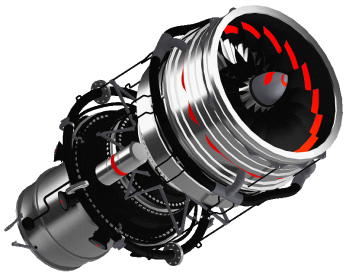
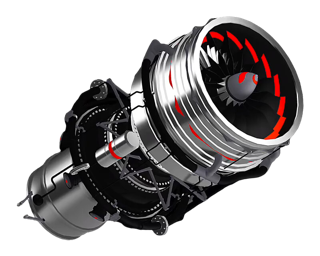
update headings and 3d model loading condition

diff --git a/index.html b/index.html
@@ -13,7 +13,7 @@
         />
         <meta
             property="og:title"
-            content="Karagoz Aviation LLC - Experience in Aviation"
+            content="Karagoz Aviation LLC - Aviation Sales And Business Development"
         />
         <meta
             property="og:description"
@@ -72,7 +72,7 @@
 
         <section id="header">
             <div class="header-title">
-                <h1 class="h1-x">
+                <h1 class="h1">
                     <!-- Vast <span class="ft-hl-blue">Experience </span><br /> -->
                     <!-- in Aviation -->
                     Your
@@ -87,7 +87,19 @@
                         src="/public/images/circle.svg"
                         alt="circle"
                     />
-                    <video class="image-3d" autoplay loop muted playsinline>
+                    <div class="aircraft-3d">
+                        <img
+                            src="/public/images/aircraft_s.png"
+                            alt="3D Aircraft"
+                            srcset="
+                                /public/images/aircraft_s.png  300w,
+                                /public/images/aircraft_m.png  600w,
+                                /public/images/aircraft_l.png 1440w
+                            "
+                            sizes="(max-width: 300px) 300px, (max-width: 600px) 600px, 1440px"
+                        />
+                    </div>
+                    <!-- <video class="image-3d" autoplay loop muted playsinline>
                         <source
                             src="/public/models/aircraft-hevc-safari.mp4"
                             type='video/mp4; codecs="hvc1"'
@@ -98,7 +110,7 @@
                             type="video/webm"
                             alt="3D Aircraft"
                         />
-                    </video>
+                    </video> -->
 
                     <div class="tag-vertical">
                         <span class="bracket-left"></span>
@@ -154,16 +166,27 @@
                         <br />
                         Excellence
                     </p> -->
-                    <p class="h1-x">
+                    <p class="h1">
                         <span class="ft-hl-blue">Aviation</span> <br />
                         Sales <br />
                         And<br />
-                        Business <br />
+                        <span class="ft-hl-blue">Business</span> <br />
                         Development
                     </p>
                 </div>
                 <div class="services-header-grid__block-3">
-                    <video autoplay loop muted playsinline>
+                    <div class="logo-3d">
+                        <img
+                            src="/public/logos/kza_logo_m.png"
+                            alt="3D Logo"
+                            srcset="
+                                /public/logos/kza_logo_m.png  600w,
+                                /public/logos/kza_logo_l.png 1440w
+                            "
+                            sizes="(max-width: 600px) 600px, 1440px"
+                        />
+                    </div>
+                    <!-- <video autoplay loop muted playsinline>
                         <source
                             src="/public/models/logo-transparent-hevc-safari.mp4"
                             type='video/mp4; codecs="hvc1"'
@@ -173,7 +196,7 @@
                             src="/public/models/logo-transparent-vp9-chrome.webm"
                             type="video/webm"
                         />
-                    </video>
+                    </video> -->
                 </div>
                 <div class="services-header-grid__block-4">
                     <p class="p-body">
@@ -356,7 +379,19 @@
         <section id="getintouch">
             <div class="git-grid">
                 <div class="git-grid__visual">
-                    <video class="image-3d" autoplay loop muted playsinline>
+                    <div class="engine-3d">
+                        <img
+                            src="/public/images/engine_s.png"
+                            alt="3D Engine"
+                            srcset="
+                                /public/images/engine_s.png  300w,
+                                /public/images/engine_m.png  600w,
+                                /public/images/engine_l.png 1440w
+                            "
+                            sizes="(max-width: 300px) 300px, (max-width: 600px) 600px, 1440px"
+                        />
+                    </div>
+                    <!-- <video class="image-3d" autoplay loop muted playsinline>
                         <source
                             src="/public/models/engine-hevc-safari.mp4"
                             type='video/mp4; codecs="hvc1"'
@@ -366,7 +401,7 @@
                             src="/public/models/engine-vp9-chrome.webm"
                             type="video/webm"
                         />
-                    </video>
+                    </video> -->
                     <div class="tag-vertical">
                         <span class="bracket-left"></span>
                         <span class="p-tag-vertical">aircraft engine</span>

diff --git a/src/development/index.js b/src/development/index.js
@@ -45,61 +45,6 @@ modalWindowNode.addEventListener("click", (event) => {
     }
 });
 
-function loadVideoIfFastConnection() {
-    const connection =
-        navigator.connection ||
-        navigator.mozConnection ||
-        navigator.webkitConnection;
-    if (connection && connection.effectiveType.includes("4g")) {
-        // load video
-        const aircraftHTML = `
-                    <video class="image-3d" autoplay loop muted playsinline>
-                        <source
-                            src="/public/models/aircraft-hevc-safari.mp4"
-                            type='video/mp4; codecs="hvc1"'
-                            alt="3D Aircraft"
-                        />
-                        <source
-                            src="/public/models/aircraft-vp9-chrome.webm"
-                            type="video/webm"
-                            alt="3D Aircraft"
-                        />
-                    </video>
-        `;
-        const logoHTML = `
-                    <video autoplay loop muted playsinline>
-                        <source
-                            src="/public/models/logo-transparent-hevc-safari.mp4"
-                            type='video/mp4; codecs="hvc1"'
-                            alt="3D Logo"
-                        />
-                        <source
-                            src="/public/models/logo-transparent-vp9-chrome.webm"
-                            type="video/webm"
-                        />
-                    </video>
-        `;
-        const engineHTML = `
-                    <video class="image-3d" autoplay loop muted playsinline>
-                        <source
-                            src="/public/models/engine-hevc-safari.mp4"
-                            type='video/mp4; codecs="hvc1"'
-                            alt="3D Engine"
-                        />
-                        <source
-                            src="/public/models/engine-vp9-chrome.webm"
-                            type="video/webm"
-                        />
-                    </video>
-        `;
-        document.querySelector(".aircraft-3d").innerHTML = aircraftHTML;
-        document.querySelector(".logo-3d").innerHTML = logoHTML;
-        document.querySelector(".engine-3d").innerHTML = engineHTML;
-    }
-}
-
-window.addEventListener("load", loadVideoIfFastConnection);
-
 function togglePopup() {
     modalWindowNode.classList.toggle(MODAL_WINDOW_ACTIVE_CLASSNAME);
     bodyNode.classList.toggle(BODY_FIXED_CLASSNAME);

diff --git a/src/styles/section-services.css b/src/styles/section-services.css
@@ -26,16 +26,35 @@
     flex-direction: column;
     justify-content: center;
     align-items: center;
+
+    /* border: 1px solid yellowgreen; */
 }
 
-.services-header-grid__block-3 video {
+/* .services-header-grid__block-3 video {
     width: 80%;
     max-width: 20rem;
     object-fit: contain;
+} */
+
+.services-header-grid__block-3 .logo-3d {
+    width: 80%;
+    max-width: 20rem;
+    object-fit: contain;
+
+    /* border: 1px solid red; */
+}
+
+.services-header-grid__block-3 .logo-3d img,
+.services-header-grid__block-3 .logo-3d video {
+    width: 100%;
+    height: auto;
+
+    /* development */
+    /* display: none; */
 }
 
 .services-header-grid__block-4 {
-    max-width: 26rem;
+    max-width: 24rem;
 
     display: flex;
     flex-direction: column;
@@ -62,9 +81,9 @@
 @media (min-width: 800px) {
     .services-header-grid {
         grid-template-columns: 1fr 60%;
-        grid-template-rows: auto auto;
+        grid-template-rows: auto auto auto;
         column-gap: 2rem;
-        row-gap: 0.5rem;
+        row-gap: 1rem;
     }
 
     .services-header-grid__block-1 {
@@ -74,8 +93,47 @@
 
     .services-header-grid__block-2 {
         grid-row-start: 1;
+        grid-row-end: 3;
+    }
+
+    .services-header-grid__block-3 {
+        grid-row-start: 2;
+        grid-row-end: 3;
+    }
+
+    .services-header-grid__block-4 {
+        grid-row-start: 3;
+        grid-row-end: 4;
+        grid-column-start: 1;
+        grid-column-end: 3;
+    }
+}
+
+@media (min-width: 1300px) {
+    .services-header-grid {
+        row-gap: 0.5rem;
+    }
+
+    .services-header-grid__block-2 {
+        grid-row-start: 1;
         grid-row-end: 4;
     }
+
+    .services-header-grid__block-4 {
+        grid-row-start: 3;
+        grid-row-end: 4;
+        grid-column-start: 1;
+        grid-column-end: 2;
+    }
+}
+
+#services .orange-line {
+    margin-bottom: 5rem;
+}
+
+.services-include {
+    margin-bottom: clamp(2rem, 8vw, 8rem);
+    color: var(--clr-white);
 }
 
 #services .orange-line {

diff --git a/src/styles/font-styles.css b/src/styles/font-styles.css
@@ -1,7 +1,7 @@
 .h1 {
-    font-size: clamp(4.25rem, 10.5vw, 9.5rem);
-    line-height: clamp(3.5rem, 8.3vw, 7.5rem);
-    letter-spacing: clamp(-0.255rem, -0.63vw, -0.57rem);
+    font-size: clamp(3.25rem, 8.5vw, 9.5rem);
+    line-height: clamp(2.5rem, 6.3vw, 7.5rem);
+    letter-spacing: clamp(-0.155rem, -0.5vw, -0.57rem);
     /* font-size: 9.5rem; */
     /* line-height: 7.5rem; */
     /* letter-spacing: -0.57rem; */
@@ -18,9 +18,12 @@
 }
 
 .h1-x {
-    font-size: clamp(3.25rem, 8.5vw, 8rem);
-    line-height: clamp(2.5rem, 6.3vw, 6.75rem);
-    letter-spacing: clamp(-0.155rem, -0.5vw, -0.45rem);
+    font-size: clamp(3.25rem, 8.5vw, 9.5rem);
+    line-height: clamp(2.5rem, 6.3vw, 7.5rem);
+    letter-spacing: clamp(-0.155rem, -0.5vw, -0.57rem);
+    /* font-size: clamp(3.25rem, 8.5vw, 8rem); */
+    /* line-height: clamp(2.5rem, 6.3vw, 6.75rem); */
+    /* letter-spacing: clamp(-0.155rem, -0.5vw, -0.45rem); */
     /* font-size: 9.5rem; */
     /* line-height: 7.5rem; */
     /* letter-spacing: -0.57rem; */

diff --git a/src/styles/section-header.css b/src/styles/section-header.css
@@ -18,7 +18,7 @@
     position: relative;
 }
 
-.header-visual video {
+/* .header-visual video {
     width: 110%;
     max-height: 120%;
     object-fit: contain;
@@ -26,6 +26,24 @@
     top: -50%;
     right: -10%;
     z-index: 500;
+} */
+
+.header-visual .aircraft-3d {
+    width: 110%;
+    max-height: 120%;
+    object-fit: contain;
+    position: absolute;
+    top: -50%;
+    right: -10%;
+    z-index: 500;
+
+    /* border: 1px solid red; */
+}
+
+.header-visual .aircraft-3d img,
+.header-visual .aircraft-3d video {
+    width: 100%;
+    height: auto;
 }
 
 .header-circle {
@@ -91,7 +109,8 @@
         right: 2.5rem;
     }
 
-    .header-visual video {
+    /* .header-visual video { */
+    .header-visual .aircraft-3d {
         top: -50%;
     }
 

diff --git a/src/styles/section-getintouch.css b/src/styles/section-getintouch.css
@@ -18,11 +18,26 @@
     position: relative;
 }
 
-.git-grid__visual video {
+/* .git-grid__visual video {
     width: 100%;
     max-width: 30rem;
     height: auto;
     object-fit: contain;
+} */
+
+.git-grid__visual .engine-3d {
+    width: 100%;
+    max-width: 30rem;
+    height: auto;
+    object-fit: contain;
+
+    /* border: 1px solid red; */
+}
+
+.git-grid__visual .engine-3d img,
+.git-grid__visual .engine-3d video {
+    width: 100%;
+    height: auto;
 }
 
 .git-grid__visual .tag-vertical {

diff --git a/src/styles/section-menu.css b/src/styles/section-menu.css
@@ -5,7 +5,8 @@
     left: 50%;
     transform: translateX(-50%);
     width: calc(100% - 2rem);
-    max-width: calc(1440px - 2rem);
+    /* max-width: calc(1440px - 2rem); */
+    max-width: calc(1600px - 2rem);
     min-width: calc(360px - 2rem);
     z-index: 800;
 

diff --git a/src/styles/index.css b/src/styles/index.css
@@ -73,7 +73,8 @@ html {
 body {
     margin: 0 auto;
     padding-bottom: 1rem;
-    max-width: 1440px;
+    /* max-width: 1440px; */
+    max-width: 1600px;
     min-width: 360px;
     background-color: var(--clr-sky-gray);
 }
